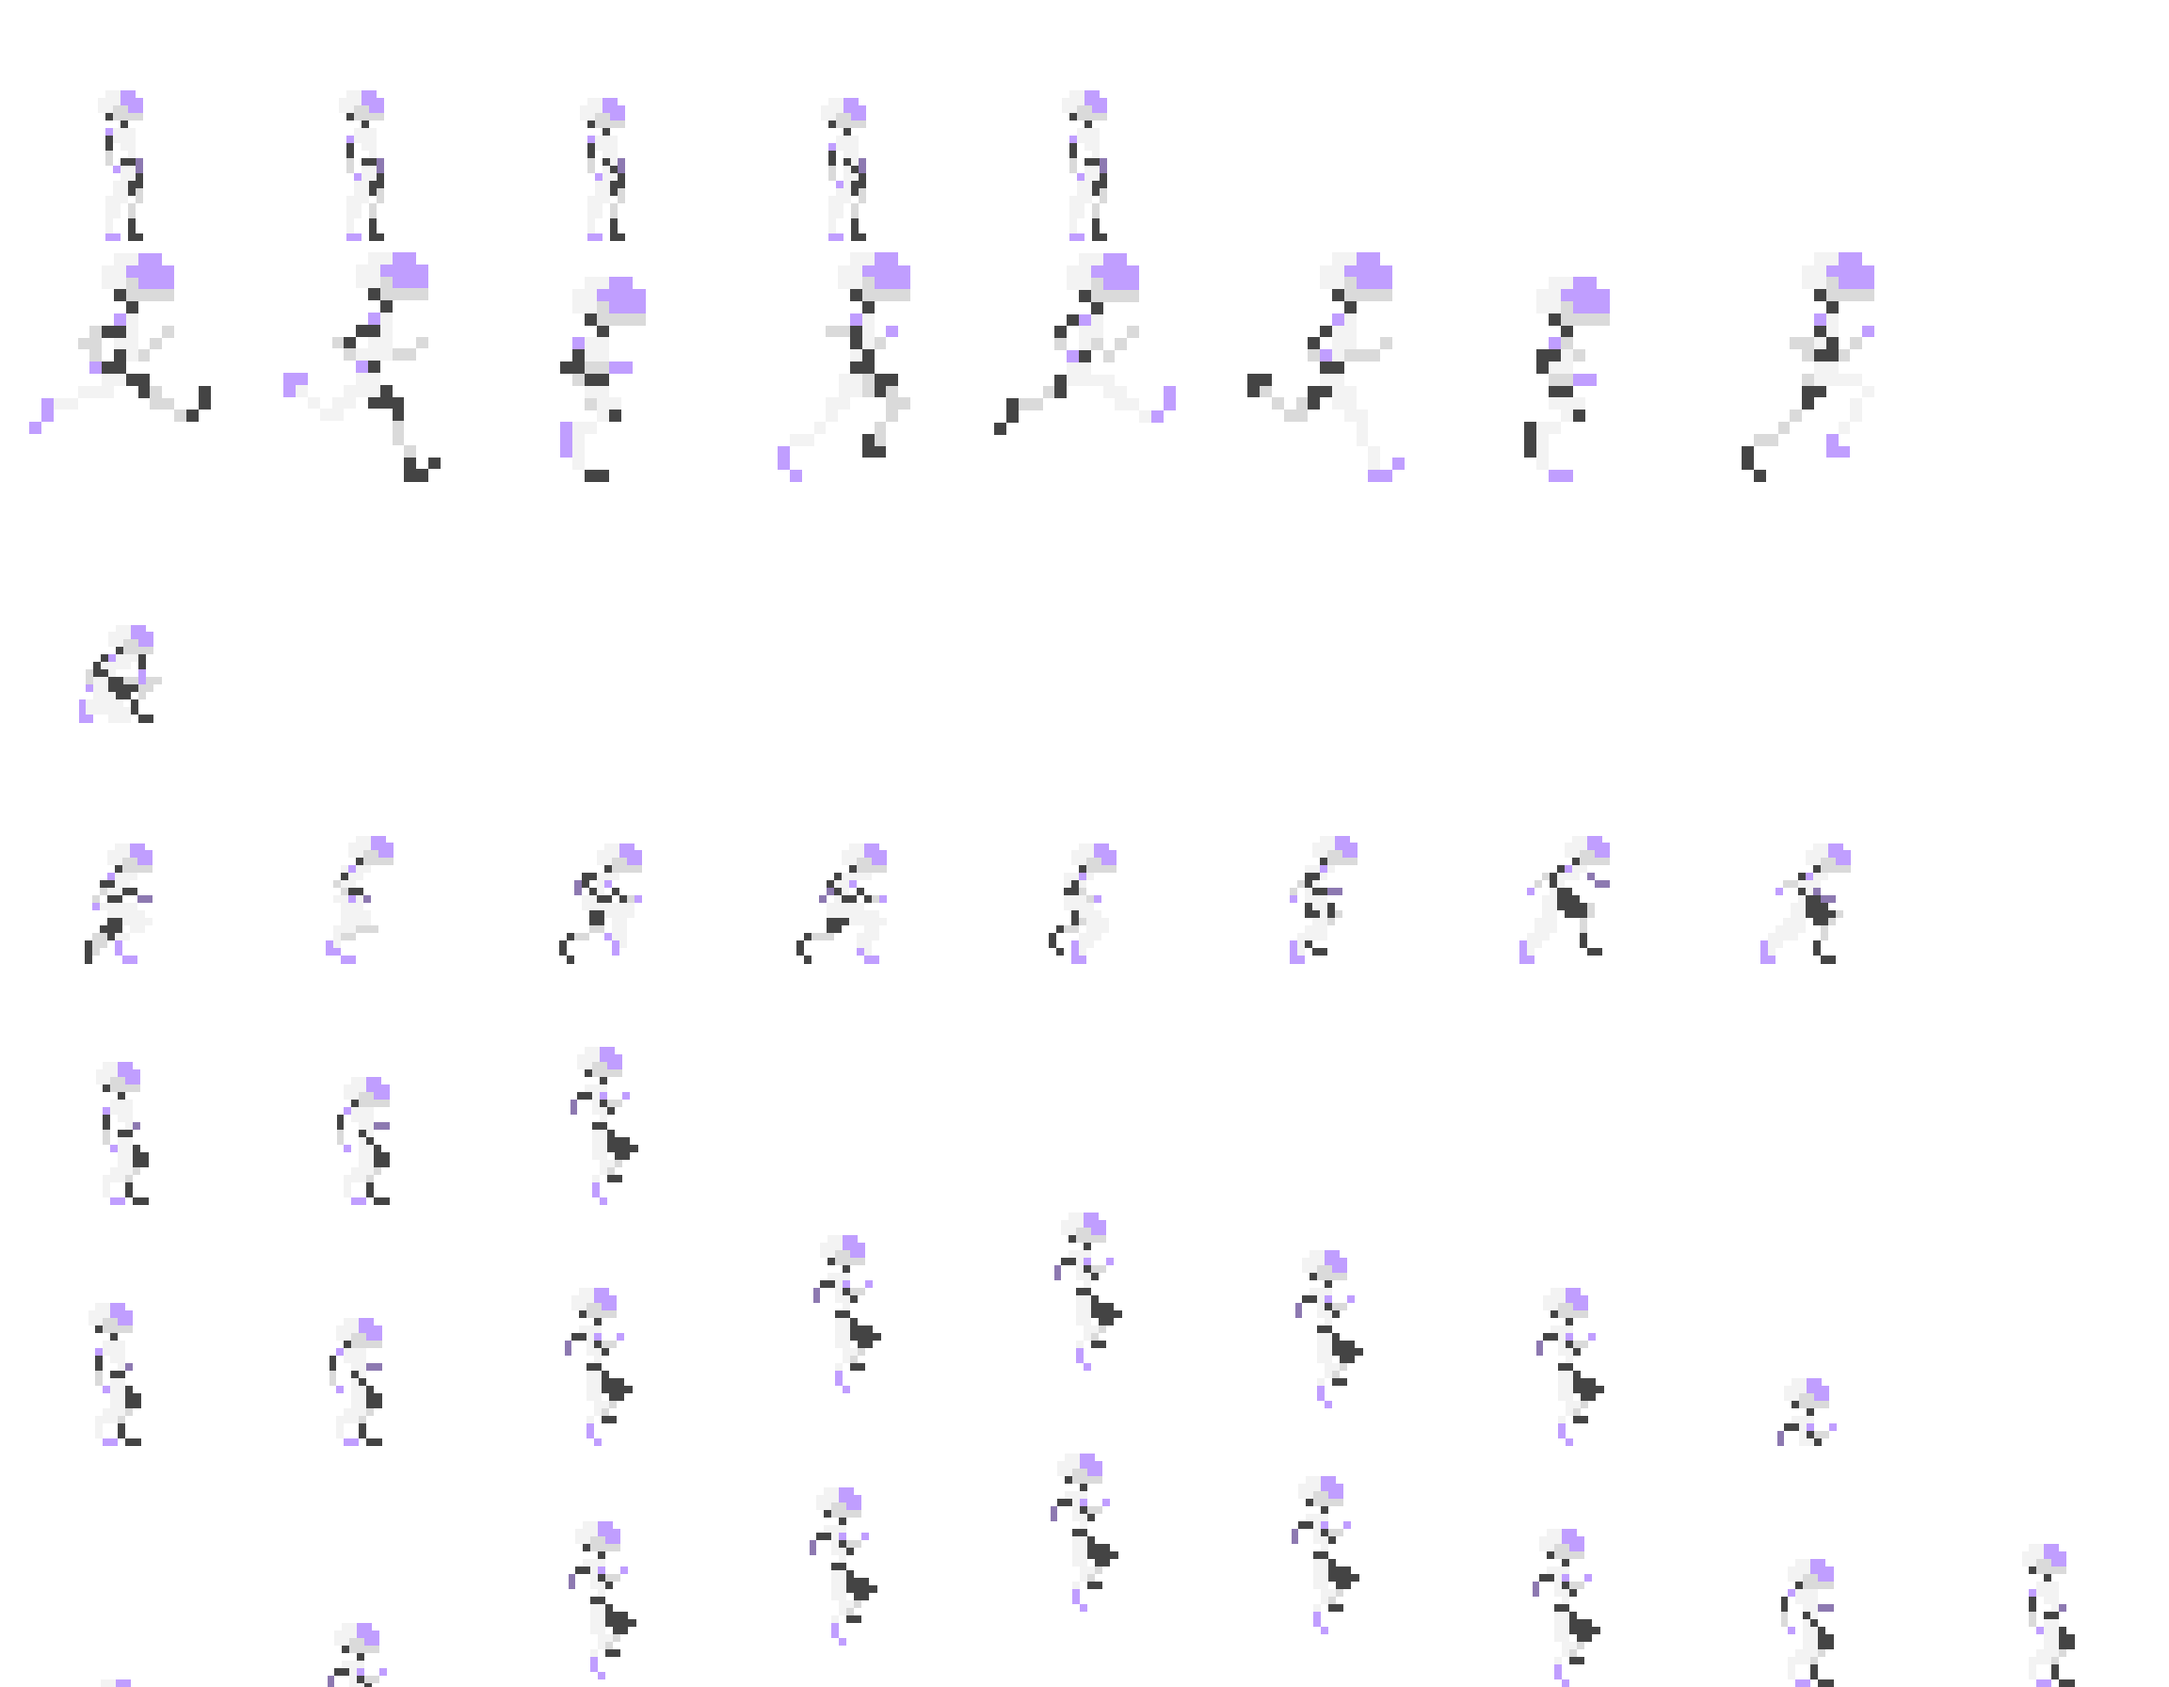
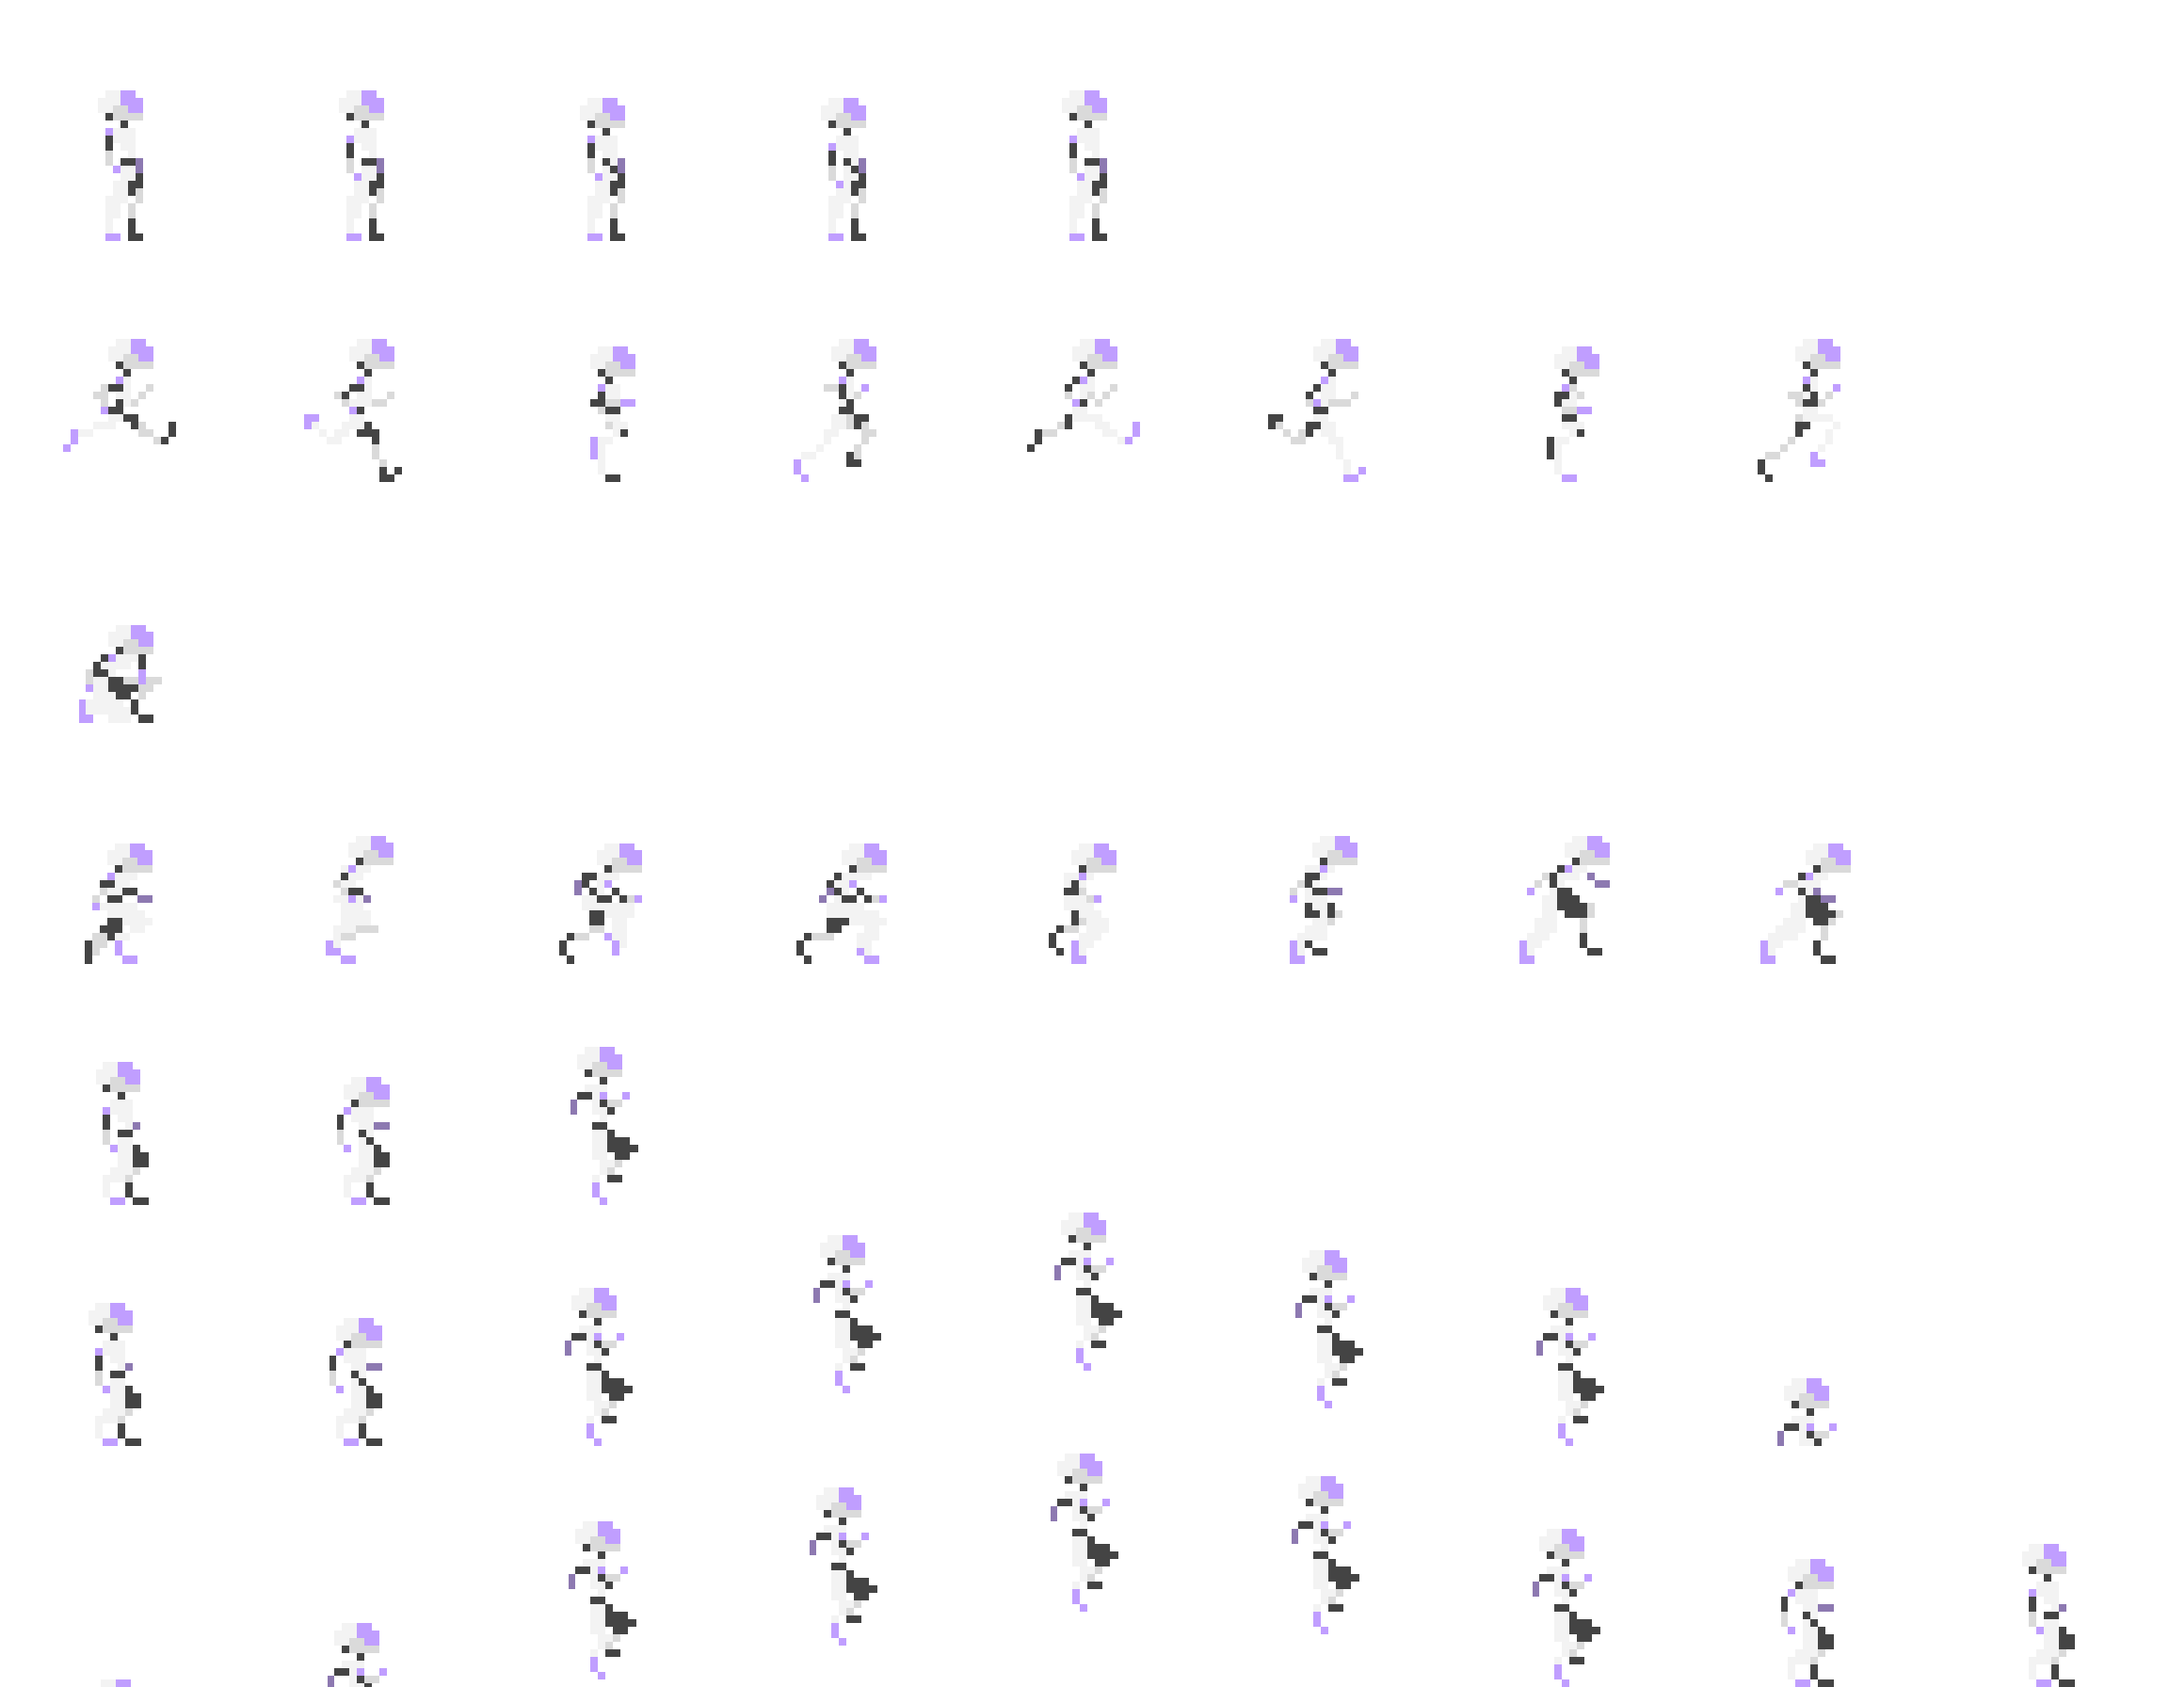
Vent Player Action

diff --git a/Project/PlayerVentAction.cpp b/Project/PlayerVentAction.cpp
@@ -1,22 +1,106 @@
 #include "PlayerVentAction.h"
-#include "CollisionLayer.h"
-PlayerVentAction::PlayerVentAction(PlayerComponent* player)
-{ player_ = player; }
 
-void PlayerVentAction::Start()
-{
-  collider_->SetObjectFilter(CollisionLayer::kNone);
+#include "CollisionLayer.h"
+#include "PlayerComponent.h"
+#include "SpriteComponent.h"
+using namespace player;
+constexpr size_t kMaxFrame = 38;
+PlayerVentAction::PlayerVentAction(PlayerComponent* player) {
+  player_ = player;
 }
 
-void PlayerVentAction::Update()
-{}
+void PlayerVentAction::Start() {
+  if (action_type_ != VentActionType::kNone) return;
+  collider_ = player_->GetCollision();
+  collider_->SetObjectFilter(CollisionLayer::kNone);
+  collider_->SetTrigger(true);
+  player_->GetAnimator()->ChangeMotion("Join");
 
-void PlayerVentAction::ProcessInput()
-{}
+  physics_body_ = player_->PhysicsBody();
 
-void PlayerVentAction::End()
-{}
+  end_ = false;
+}
 
-template <typename Machine>
-void PlayerVentAction::Transition(Machine& machine) const
-{}
+void PlayerVentAction::Update() {
+  physics_body_->SetForce({0, 0});
+  switch (action_type_) {
+    case VentActionType::kIn:
+      InActionUpdate();
+      break;
+    case VentActionType::kOut:
+      OutActionUpdate();
+      break;
+    case VentActionType::kStay:
+
+      if (player_->IsActionKey()) {
+        action_type_ = VentActionType::kOut;
+        current_frame_ = 0;
+        const auto sprite = player_->GetOwner()
+                                ->GetComponent<base_engine::SpriteComponent>()
+                                .lock();
+        sprite->SetEnabled(true);
+        player_->GetAnimator()->ChangeMotion("Leave");
+      }
+      break;
+    case VentActionType::kNone:
+    default:
+      break;
+  }
+}
+
+void PlayerVentAction::ProcessInput() {}
+
+void PlayerVentAction::End() {
+  collider_->SetObjectFilter(kPlayerObjectFilter);
+  collider_->SetTrigger(false);
+}
+
+void PlayerVentAction::OnEvent(const VentComponent* const v) {
+  if (action_type_ != VentActionType::kNone) return;
+  start_pos_ = player_->GetOwner()->GetPosition();
+  const auto sprite =
+      player_->GetOwner()->GetComponent<base_engine::SpriteComponent>().lock();
+  const auto clip = sprite->GetClipRect();
+  target_pos_ = v->GetGoInPosition() -
+                base_engine::Vector2{clip.GetWidth() / 2, clip.GetHeight() / 2};
+  action_type_ = VentActionType::kIn;
+  current_frame_ = 0;
+
+  if (start_pos_.x < target_pos_.x) {
+    player_->LookAtRight();
+  } else if (start_pos_.x > target_pos_.x) {
+    player_->LookAtLeft();
+  }
+}
+
+void PlayerVentAction::InActionUpdate() {
+  ++current_frame_;
+  if (current_frame_ >= kMaxFrame) {
+    current_frame_ = kMaxFrame;
+    action_type_ = VentActionType::kStay;
+    const auto sprite = player_->GetOwner()
+                            ->GetComponent<base_engine::SpriteComponent>()
+                            .lock();
+    sprite->SetEnabled(false);
+  }
+  const float t1 = static_cast<float>(current_frame_) / kMaxFrame;
+  const float t2 = t1 * t1;
+
+  player_->GetOwner()->SetPosition(
+      Mof::CVector2Utilities::Lerp(start_pos_, target_pos_, t2));
+}
+
+void PlayerVentAction::OutActionUpdate() {
+  ++current_frame_;
+  if (current_frame_ >= kMaxFrame) {
+    current_frame_ = kMaxFrame;
+    action_type_ = VentActionType::kNone;
+    end_ = true;
+  }
+
+  const float t1 = static_cast<float>(current_frame_) / kMaxFrame;
+  const float t2 = -(t1 * t1) + 2 * t1;
+
+  //player_->GetOwner()->SetPosition(Mof::CVector2Utilities::Lerp(
+  //    target_pos_, target_pos_ + Mof::Vector2{100, 0}, t2));
+}

diff --git a/Project/VentComponent.cpp b/Project/VentComponent.cpp
@@ -1,6 +1,5 @@
 #include "VentComponent.h"
 
-
 #include "BaseEngineCore.h"
 #include "Circle.h"
 #include "CollisionComponent.h"
@@ -13,6 +12,7 @@
 #include "LeverStubReceiver.h"
 #include "LoadObjectParameter.h"
 #include "MachineConst.h"
+#include "PlayerComponent.h"
 #include "ReceiverComponent.h"
 #include "SignboardReceiver.h"
 #include "StageConstitution.h"
@@ -23,13 +23,9 @@
 using namespace base_engine;
 using namespace draw_order;
 
-VentActor::VentActor(base_engine::Game* game): Actor(game)
-{
-      
-}
+VentActor::VentActor(base_engine::Game* game) : Actor(game) {}
 
-void VentActor::Create(const LoadObject& object)
-{
+void VentActor::Create(const LoadObject& object) {
   {
     constexpr auto cell = stage::kStageCellSize<Floating>;
     const auto rect = std::make_shared<Rect>(0, 0, cell.x, cell.y);
@@ -45,7 +41,7 @@ void VentActor::Create(const LoadObject& object)
     collision->SetTrigger(true);
   }
   {
-    const auto sign = new SpriteComponent(this, kSignboardDrawOrder);
+    const auto sign = new SpriteComponent(this, kVentDrawOrder);
     const auto& path =
         std::get<LoadObject::TexturePath>(object.parameters[0]).value;
     sign->SetImage(BASE_ENGINE(Texture)->Get(path));
@@ -61,4 +57,16 @@ void VentActor::Create(const LoadObject& object)
     grid->SetAutoSnap(grid::AutoSnap::No).SetSnapGridPosition({pos.x, pos.y});
   }
   SetName("VentActor");
+}
+
+VentComponent::VentComponent(base_engine::Actor* owner) : Component(owner) {}
+
+void VentComponent::Start() {}
+
+void VentComponent::Update() {}
+
+void VentComponent::Action(base_engine::Actor* machine_operator) {
+  const auto player =
+      machine_operator->GetComponent<player::PlayerComponent>().lock();
+  player->VentEnter(this);
 }

diff --git a/Project/PlayerComponent.h b/Project/PlayerComponent.h
@@ -20,8 +20,11 @@
 #include "PlayerMove.h"
 #include "PlayerSneak.h"
 #include "PlayerSneakMove.h"
+#include "PlayerVentAction.h"
 #include "ReactiveProperty.h"
 #include "StateMachine.h"
+
+class VentComponent;
 
 namespace tile_map {
 class TileMapComponent;
@@ -40,6 +43,7 @@ class PlayerComponent final : public base_engine::Component {
   void ProcessInput() override { machine_.ProcessInput(); }
   void Update() override;
   void OnCollision(const base_engine::SendManifold& manifold) override;
+  void VentEnter(VentComponent* vent);
 
   void SetInput(const InputManager* input_manager) {
     input_manager_ = input_manager;
@@ -92,10 +96,12 @@ class PlayerComponent final : public base_engine::Component {
   TileMapWeak map_;
 
   til::Machine<PlayerIdle, PlayerMove, PlayerSneak, PlayerSneakMove, PlayerJump,
-               PlayerFall>
+               PlayerFall, PlayerVentAction>
       machine_ = til::Machine{PlayerIdle{this},  PlayerMove{this},
                               PlayerSneak{this}, PlayerSneakMove{this},
-                              PlayerJump{this},  PlayerFall{this}};
+                              PlayerJump{this},  PlayerFall{this},
+                              PlayerVentAction{this}};
+
   std::weak_ptr<base_engine::CollisionComponent> collision_;
   std::weak_ptr<base_engine::PhysicsBodyComponent> physics_body_;
   std::weak_ptr<base_engine::ISpriteAnimationComponent> animator_;

diff --git a/Project/PlayerVentAction.h b/Project/PlayerVentAction.h
@@ -7,13 +7,16 @@
 
 #pragma once
 #include "CollisionComponent.h"
+#include "PlayerState.h"
+#include "VentComponent.h"
+class VentComponent;
 
+namespace player {
 class PlayerVentAction {
-  class PlayerComponent* player_;
-  base_engine::CollisionComponent* collider_ = nullptr;
+  enum class VentActionType { kNone, kIn, kStay, kOut };
 
  public:
-  explicit PlayerVentAction(PlayerComponent* player);
+  explicit PlayerVentAction(class PlayerComponent* player);
 
   void Start();
 
@@ -21,7 +24,24 @@ class PlayerVentAction {
 
   void ProcessInput();
   void End();
+  void OnEvent(const VentComponent* const v);
 
   template <typename Machine>
-  void Transition(Machine& machine) const;
+  void Transition(Machine& machine) const {
+    if (end_) machine.template TransitionTo<PlayerIdle>();
+  }
+
+ private:
+  void InActionUpdate();
+  void OutActionUpdate();
+  class PlayerComponent* player_;
+  base_engine::CollisionComponent* collider_ = nullptr;
+  base_engine::PhysicsBodyComponent* physics_body_ = nullptr;
+
+  base_engine::Vector2 target_pos_;
+  base_engine::Vector2 start_pos_;
+  size_t current_frame_;
+  VentActionType action_type_ = VentActionType::kNone;
+  bool end_ = false;
 };
+}  // namespace player

diff --git a/Project/VentComponent.h b/Project/VentComponent.h
@@ -10,6 +10,7 @@
 #include "Component.h"
 #include "IMachineActionable.h"
 #include "LoadObjectParameter.h"
+#include "StageConstitution.h"
 
 class VentActor final : public base_engine::Actor {
  public:
@@ -25,11 +26,18 @@ class VentActor final : public base_engine::Actor {
 class VentComponent final : public base_engine::Component,
                             public IMachineActionable {
  public:
-  explicit VentComponent(base_engine::Actor* owner) : Component(owner) {}
+  explicit VentComponent(base_engine::Actor* owner);
 
-  void Start() override {}
+  void Start() override;
 
-  void Update() override {}
+  void Update() override;
 
-  void Action(base_engine::Actor* player) override {}
+  void Action(base_engine::Actor* player) override;
+
+  [[nodiscard]] base_engine::Vector2 GetGoInPosition() const
+  {
+    auto pos = owner_->GetPosition();
+    pos.x += stage::kStageCellSizeHalf<float>.x;
+    return pos;
+  }
 };

diff --git a/Project/PlayerComponent.cpp b/Project/PlayerComponent.cpp
@@ -80,6 +80,11 @@ void PlayerComponent::OnCollision(const base_engine::SendManifold& manifold) {
   }
 }
 
+void PlayerComponent::VentEnter(VentComponent* vent) {
+  machine_.TransitionTo<PlayerVentAction>();
+  machine_.OnEvent(vent);
+}
+
 bool PlayerComponent::CanPlace(const GridPosition& pos) const {
   const auto map = map_.lock();
   const bool space = map->GetCell(pos) == tile_map::kEmptyCell;

diff --git a/Project/DrawOrder.h b/Project/DrawOrder.h
@@ -20,6 +20,7 @@ constexpr int kPowerSupplyUnitDrawOrder = 120;
 constexpr int kBeaconDrawOrder = 120;
 constexpr int kSignboardDrawOrder = 120;
 constexpr int kSignboardDisplayDrawOrder = kSignboardDrawOrder+1;
+constexpr int kVentDrawOrder = 160;
 constexpr int kElectricEffectDrawOrder = 130;
 
 constexpr int kEnemyDrawOrder = 149;

diff --git a/Project/PlayerState.h b/Project/PlayerState.h
@@ -14,4 +14,5 @@ class PlayerSneak;
 class PlayerIdle;
 class PlayerSneakMove;
 class PlayerFall;
+class PlayerVentAction;
 }  // namespace player
